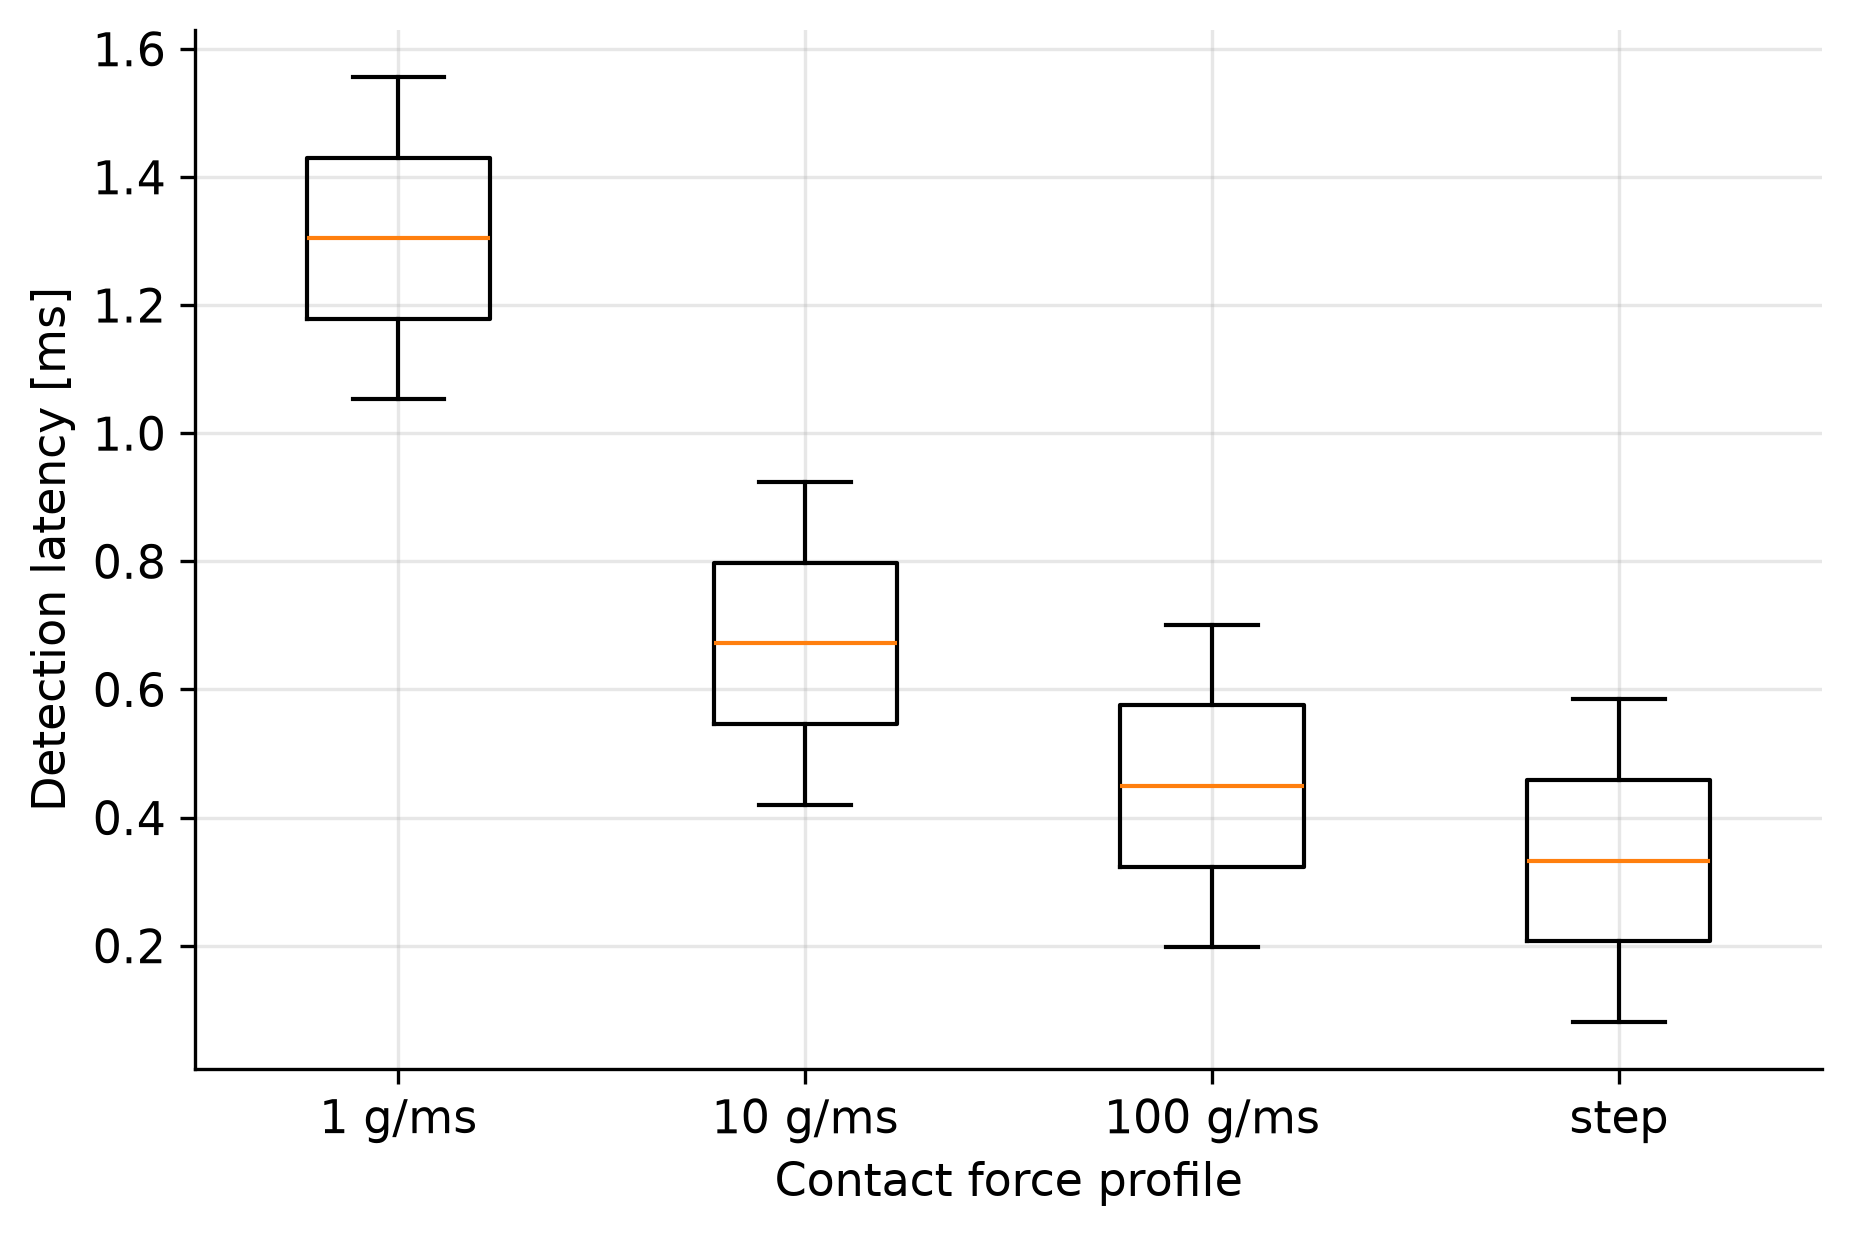
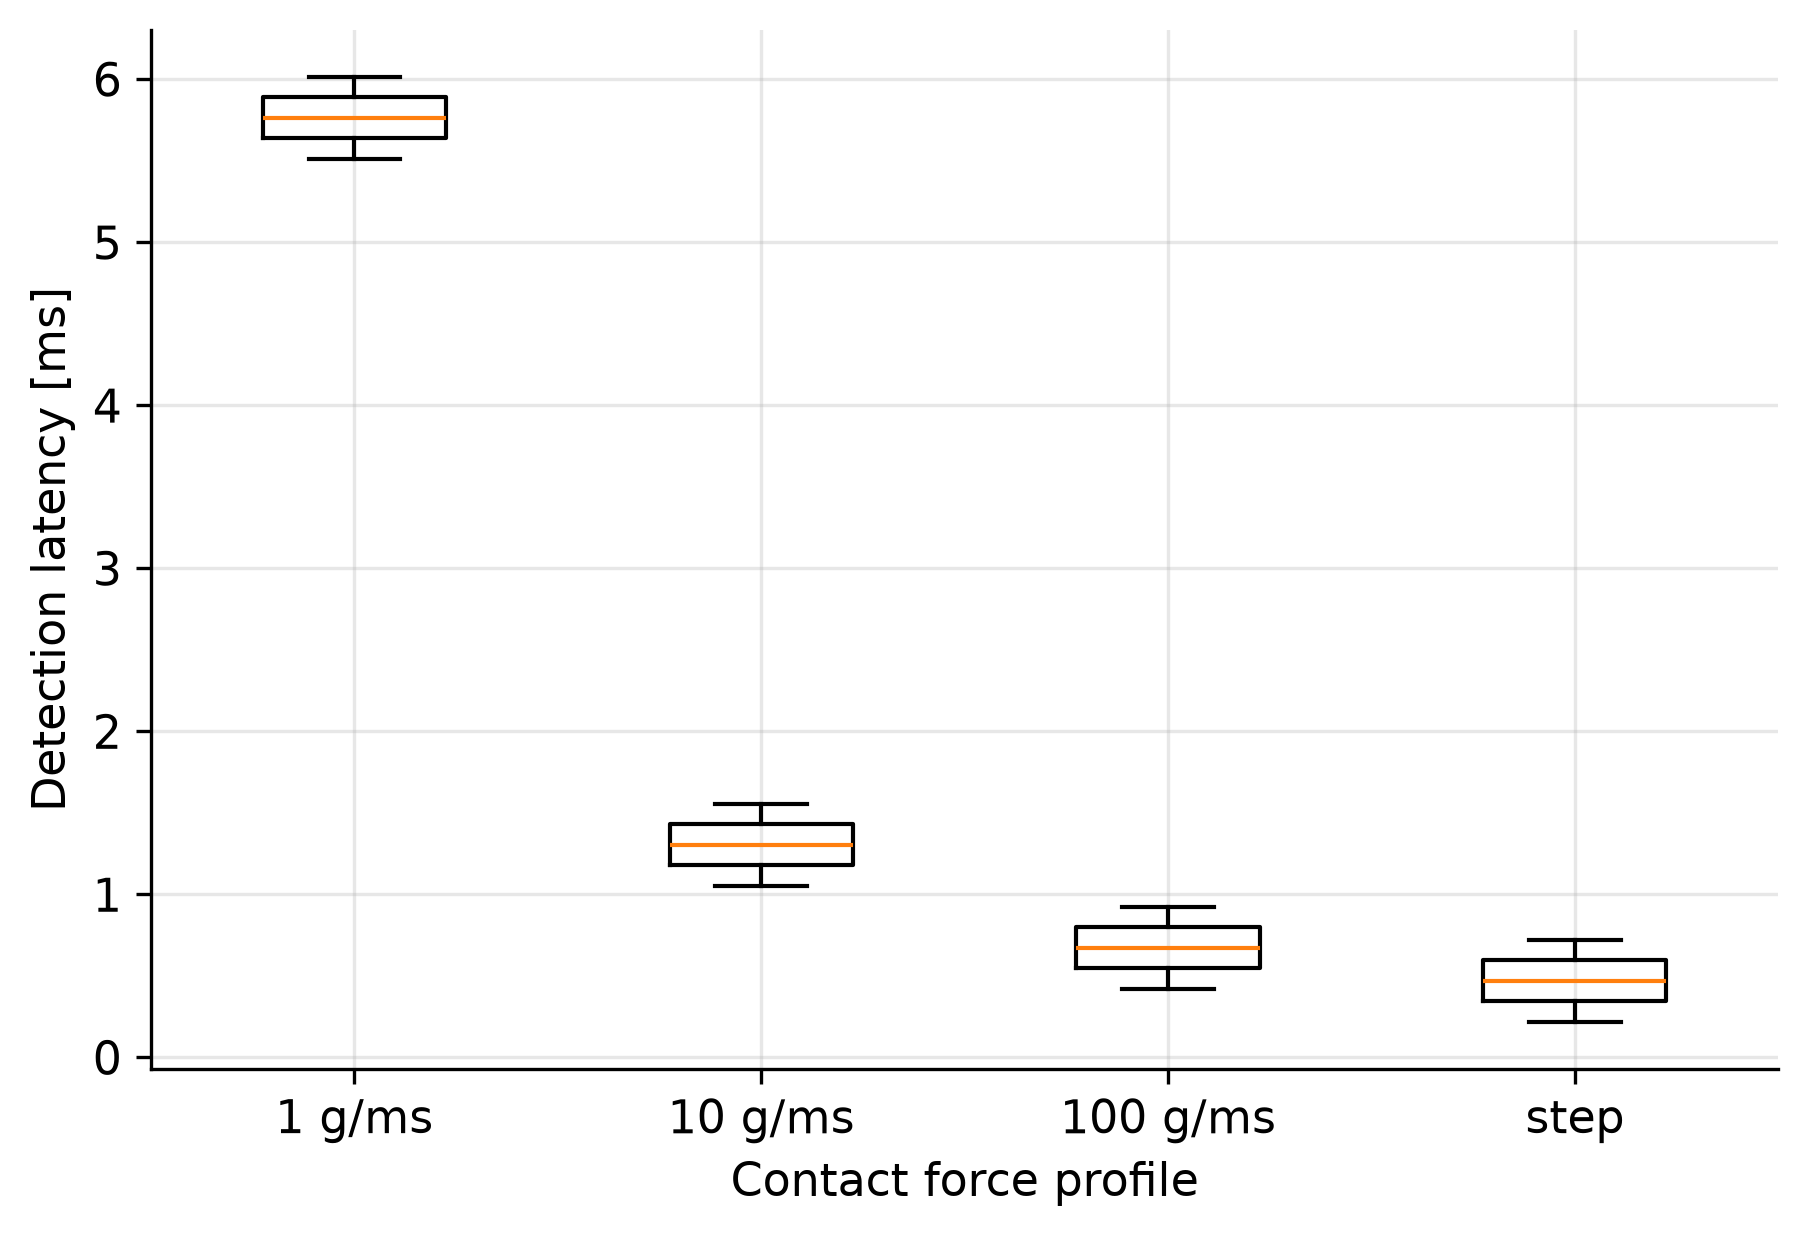
Rerun contact detection for the FRC4115 5 kg, 1 mV/V load cell.

diff --git a/electrical/03-loadcell-contact-detect/scripts/contact_latency.py b/electrical/03-loadcell-contact-detect/scripts/contact_latency.py
@@ -16,6 +16,7 @@ from math import erfc, sqrt
 
 import matplotlib.pyplot as plt
 import numpy as np
+from scipy.signal import fftconvolve
 
 from adam_common import apply_style, check, load_specs, save_figure, study_paths, write_summary
 from adam_common.spice import run_ngspice, trace
@@ -59,7 +60,7 @@ def force_profile(t, t0, rate):
 
 def detect(t, force, step_resp, threshold):
     """Analog-filtered force, ADC outputs (times, values) and the detection time (s)."""
-    analog = np.convolve(np.diff(force, prepend=0.0), step_resp)[: len(t)]
+    analog = fftconvolve(np.diff(force, prepend=0.0), step_resp)[: len(t)]
     per_conv = int(round(T_CONV / DT))
     n_conv = len(t) // per_conv
     adc = analog[: n_conv * per_conv].reshape(n_conv, per_conv).mean(axis=1)
@@ -111,7 +112,9 @@ def main():
     sigma_g = ADS["noise_rms_g128_t2000"] * grams_per_volt()
     threshold = CRIT["threshold_sigma"] * sigma_g
 
-    t = np.arange(0, 12 * T_CONV, DT)
+    # Long enough for the slowest ramp to reach threshold, plus filter and conversion delay.
+    t_needed = threshold / (min(RAMP_RATES) * 1e3) + 8 * T_CONV
+    t = np.arange(0, t_needed, DT)
     step_resp = analog_step_response(len(t))
     plot_example(t, step_resp, threshold)
 

diff --git a/electrical/03-loadcell-contact-detect/README.md b/electrical/03-loadcell-contact-detect/README.md
@@ -35,9 +35,9 @@ to drive Z_CONTACT? This study checks:
   4. The contact instant is swept across one conversion period (200 phases).
 
 ## Assumptions
-- **The load cell is 2 mV/V and 1000 g capacity, excited at 5 V (10 mV full scale).** These
-  are placeholders until the real load cell is chosen. Force noise, threshold and resolution
-  all scale as capacity / (mV/V).
+- **The load cell is the planned FRC4115: 5 kg capacity, 1 mV/V rated output.** Excited at
+  5 V, that is 5 mV full scale, inside the ±16 mV range at gain 128. Force noise, threshold
+  and resolution all scale as capacity / (mV/V).
 - The bridge output resistance is 1 kΩ.
 - The noise is white and Gaussian, with samples independent. The datasheet table uses the
   internal 2.048 V reference. TI states that input-referred noise "only changes marginally"
@@ -68,23 +68,23 @@ The corner is 505 Hz, not the 531 Hz hand calc, because the hand calc leaves out
 
 ![](results/figures/contact_timeline.png)
 
-| Detection (assumed 2 mV/V, 1 kg) | Result | |
+| Detection (FRC4115, 5 kg, 1 mV/V) | Result | |
 |---|---|---|
-| Force noise (rms) / noise-free resolution (pk-pk) | 0.082 g / 0.58 g | info |
-| 6σ trigger threshold | 0.49 g | info |
+| Force noise (rms) / noise-free resolution (pk-pk) | 0.82 g / 5.8 g | info |
+| 6σ trigger threshold | 4.9 g | info |
 | Mean time between false triggers at 6σ | 142 h | info |
 
 ![](results/figures/contact_latency.png)
 
 | Contact profile | Latency mean / max | Overtravel at 5 mm/s, max | ≤ 10 µm |
 |---|---|---|---|
-| Step to 50 g | 0.33 / 0.58 ms | 2.9 µm | **PASS** |
-| 100 g/ms ramp | 0.45 / 0.70 ms | 3.5 µm | **PASS** |
-| 10 g/ms ramp | 0.67 / 0.92 ms | 4.6 µm | **PASS** |
-| 1 g/ms ramp | 1.30 / 1.56 ms | 7.8 µm | **PASS** |
+| Step to 50 g | 0.47 / 0.72 ms | 3.6 µm | **PASS** |
+| 100 g/ms ramp | 0.67 / 0.92 ms | 4.6 µm | **PASS** |
+| 10 g/ms ramp | 1.30 / 1.56 ms | 7.8 µm | **PASS** |
+| 1 g/ms ramp | 5.76 / 6.01 ms | **30.1 µm** | **FAIL** |
 
 Latency comes from three parts:
-- the time for the force itself to reach the threshold (0.49 ms at 1 g/ms)
+- the time for the force itself to reach the threshold (4.9 ms at 1 g/ms)
 - the analog filter delay (~0.3 ms)
 - waiting for the conversion window to finish (0–0.5 ms, depending on phase)
 
@@ -94,10 +94,17 @@ are detected in under 0.6 ms. Soft contacts are limited by the threshold, not th
 ## Conclusions
 - The analog filter passes anti-aliasing at turbo speed with 10 dB of margin. It adds about
   0.3 ms of delay.
-- With the placeholder load cell, a 6σ threshold sits at 0.5 g. That gives one false trigger
-  per ~140 h at 2000 SPS, and worst-case overtravel stays under 8 µm at 5 mm/s.
-- The firmware can trade false-trigger rate for latency. Requiring two consecutive samples
-  over a lower threshold (e.g. 4.5σ) cuts false triggers to almost nothing and costs up to
-  one extra conversion (0.5 ms).
-- Next steps: put in the real load cell's mV/V and capacity, plus the ADAM overtravel
-  requirement, then rerun. Every number above scales linearly with capacity / (mV/V).
+- With the FRC4115 (5 kg, 1 mV/V), a 6σ threshold sits at 4.9 g. That gives one false
+  trigger per ~140 h at 2000 SPS. Stiff contacts (≥ 10 g/ms) stay within 10 µm of
+  overtravel at 5 mm/s. **Soft contacts (1 g/ms) take about 6 ms and overtravel about
+  30 µm**, because the force itself needs 4.9 ms to reach the threshold.
+- A 5 kg cell spends most of its range unused in probing. Two ways to bring the threshold
+  down, starting with the firmware option:
+  - **Firmware:** require two consecutive samples over 4.5σ (3.7 g). Two independent samples
+    over 4.5σ are about as rare as one over 6σ, so false triggers drop to almost nothing, but
+    detection costs up to one extra conversion (0.5 ms).
+  - **Hardware:** a lower-capacity or higher-output cell (e.g. 1 kg, 2 mV/V) lowers the
+    threshold 10× directly.
+- Next steps: set the ADAM overtravel requirement (10 µm is provisional) and measure the
+  real contact stiffness × probing speed (the g/ms ramp). Every number above scales
+  linearly with capacity / (mV/V).
